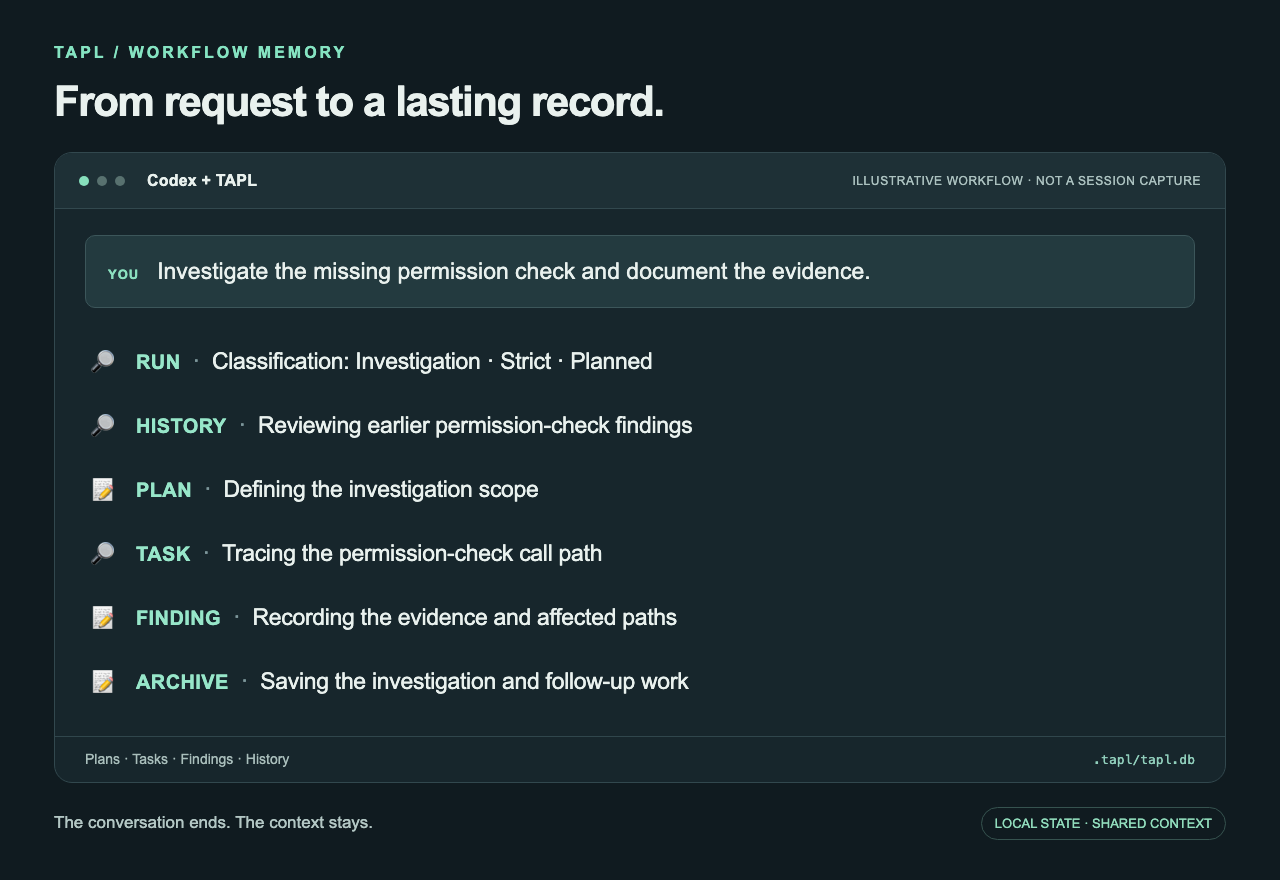
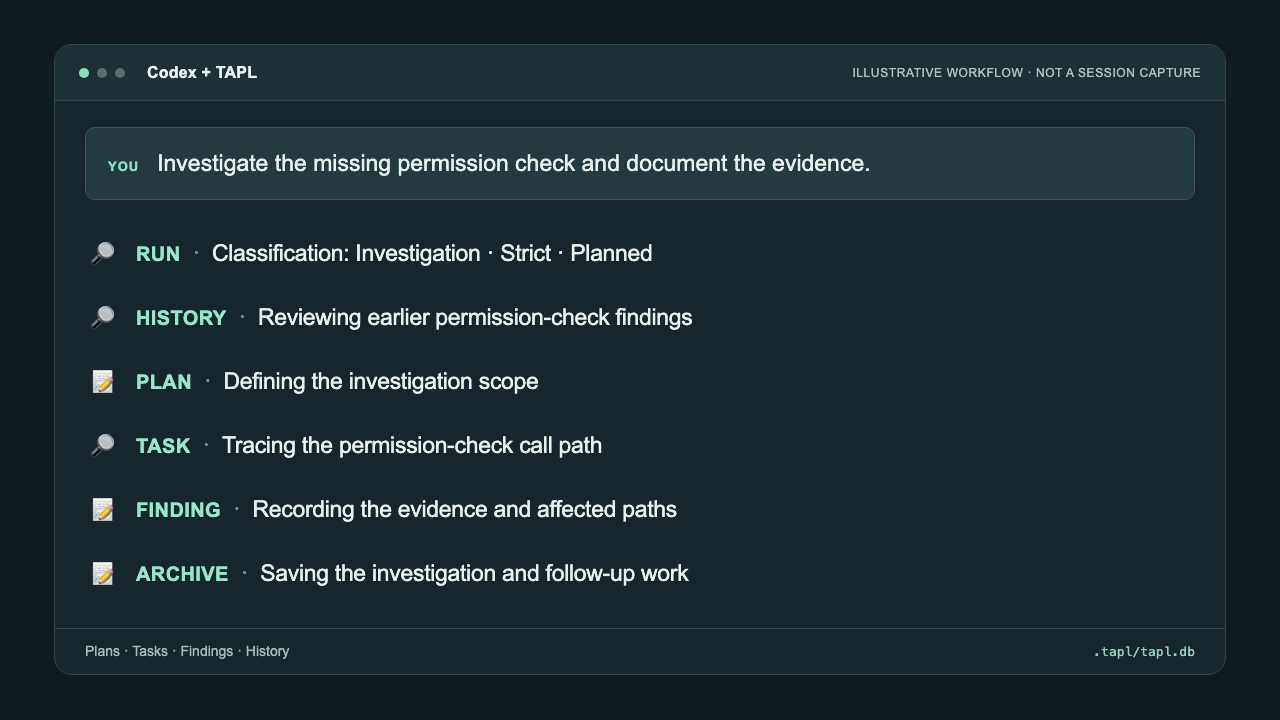
docs: remove promotional copy from workflow demos

diff --git a/assets/readme/workflow-ko.html b/assets/readme/workflow-ko.html
@@ -1,9 +1,7 @@
 <!doctype html><html lang="ko"><meta charset="utf-8">
 <title>TAPL illustrative workflow</title><style>
-* {box-sizing:border-box} html,body {margin:0;width:1280px;height:880px;overflow:hidden}
+* {box-sizing:border-box} html,body {margin:0;width:1280px;height:720px;overflow:hidden}
 body {background:#101b20;color:#e9f1ee;font-family:Arial,"Apple SD Gothic Neo","Noto Sans CJK KR",sans-serif;padding:44px 54px}
-.eyebrow {font-size:16px;letter-spacing:3px;font-weight:700;color:#85e3c1}
-h1 {font-size:42px;letter-spacing:-1.4px;margin:16px 0 26px;font-weight:650}
 .window {background:#17262c;border:1px solid #32484e;border-radius:18px;overflow:hidden}
 .bar {height:56px;background:#1e3036;display:flex;align-items:center;padding:0 24px;gap:8px;border-bottom:1px solid #32484e}
 .light {width:10px;height:10px;border-radius:50%;background:#58716f} .light:first-child {background:#87dfbc}
@@ -19,14 +17,9 @@ h1 {font-size:42px;letter-spacing:-1.4px;margin:16px 0 26px;font-weight:650}
 .dot {padding:0 12px;color:#7c969a}
 .bottom {height:46px;border-top:1px solid #30464c;display:flex;align-items:center;justify-content:space-between;color:#a9bebb;font-size:14px;padding:0 30px}
 .db {font-family:Menlo,Consolas,monospace;color:#91cfbc;font-size:13px}
-.footer {display:flex;align-items:center;justify-content:space-between;margin-top:24px;font-size:17px;color:#b3c7c4}
-.pill {border:1px solid #36534f;padding:8px 13px;border-radius:20px;color:#91dcbc;font-size:13px}
 </style><body>
-<div class="eyebrow">TAPL / WORKFLOW MEMORY</div>
-<h1>요청부터 기록까지, 한눈에.</h1>
 <div class="window"><div class="bar"><i class="light"></i><i class="light"></i><i class="light"></i>
 <span class="bar-title">Codex + TAPL</span><span class="sample">TAPL 진행 예시 · 실제 세션 캡처가 아닙니다</span></div>
 <div class="content"><div class="user"><b>YOU</b>권한 검사 누락의 원인을 조사하고 근거를 정리해줘.</div><div class="rows"><div class="row" style="visibility:visible"><span class="icon">🔎</span><div><span class="kind">RUN</span><span class="dot">·</span><span>분류: Investigation · Strict · Planned</span></div></div><div class="row" style="visibility:visible"><span class="icon">🔎</span><div><span class="kind">HISTORY</span><span class="dot">·</span><span>이전 권한 검사 관련 기록 확인 중</span></div></div><div class="row" style="visibility:visible"><span class="icon">📝</span><div><span class="kind">PLAN</span><span class="dot">·</span><span>조사 범위와 확인할 경로 정리 중</span></div></div><div class="row" style="visibility:visible"><span class="icon">🔎</span><div><span class="kind">TASK</span><span class="dot">·</span><span>권한 검사 호출 경로 추적 중</span></div></div><div class="row" style="visibility:visible"><span class="icon">📝</span><div><span class="kind">FINDING</span><span class="dot">·</span><span>확인한 근거와 영향 범위 기록 중</span></div></div><div class="row" style="visibility:visible"><span class="icon">📝</span><div><span class="kind">ARCHIVE</span><span class="dot">·</span><span>조사 결과와 후속 작업 보관 중</span></div></div></div></div>
 <div class="bottom"><span>계획 · 작업 · 근거 · 이력</span><span class="db">.tapl/tapl.db</span></div></div>
-<div class="footer"><span>대화가 끝나도, 작업의 맥락은 남습니다.</span><span class="pill">LOCAL STATE · SHARED CONTEXT</span></div>
 </body></html>

diff --git a/assets/readme/workflow-en.html b/assets/readme/workflow-en.html
@@ -1,9 +1,7 @@
 <!doctype html><html lang="en"><meta charset="utf-8">
 <title>TAPL illustrative workflow</title><style>
-* {box-sizing:border-box} html,body {margin:0;width:1280px;height:880px;overflow:hidden}
+* {box-sizing:border-box} html,body {margin:0;width:1280px;height:720px;overflow:hidden}
 body {background:#101b20;color:#e9f1ee;font-family:Arial,"Apple SD Gothic Neo","Noto Sans CJK KR",sans-serif;padding:44px 54px}
-.eyebrow {font-size:16px;letter-spacing:3px;font-weight:700;color:#85e3c1}
-h1 {font-size:42px;letter-spacing:-1.4px;margin:16px 0 26px;font-weight:650}
 .window {background:#17262c;border:1px solid #32484e;border-radius:18px;overflow:hidden}
 .bar {height:56px;background:#1e3036;display:flex;align-items:center;padding:0 24px;gap:8px;border-bottom:1px solid #32484e}
 .light {width:10px;height:10px;border-radius:50%;background:#58716f} .light:first-child {background:#87dfbc}
@@ -19,14 +17,9 @@ h1 {font-size:42px;letter-spacing:-1.4px;margin:16px 0 26px;font-weight:650}
 .dot {padding:0 12px;color:#7c969a}
 .bottom {height:46px;border-top:1px solid #30464c;display:flex;align-items:center;justify-content:space-between;color:#a9bebb;font-size:14px;padding:0 30px}
 .db {font-family:Menlo,Consolas,monospace;color:#91cfbc;font-size:13px}
-.footer {display:flex;align-items:center;justify-content:space-between;margin-top:24px;font-size:17px;color:#b3c7c4}
-.pill {border:1px solid #36534f;padding:8px 13px;border-radius:20px;color:#91dcbc;font-size:13px}
 </style><body>
-<div class="eyebrow">TAPL / WORKFLOW MEMORY</div>
-<h1>From request to a lasting record.</h1>
 <div class="window"><div class="bar"><i class="light"></i><i class="light"></i><i class="light"></i>
 <span class="bar-title">Codex + TAPL</span><span class="sample">ILLUSTRATIVE WORKFLOW · NOT A SESSION CAPTURE</span></div>
 <div class="content"><div class="user"><b>YOU</b>Investigate the missing permission check and document the evidence.</div><div class="rows"><div class="row" style="visibility:visible"><span class="icon">🔎</span><div><span class="kind">RUN</span><span class="dot">·</span><span>Classification: Investigation · Strict · Planned</span></div></div><div class="row" style="visibility:visible"><span class="icon">🔎</span><div><span class="kind">HISTORY</span><span class="dot">·</span><span>Reviewing earlier permission-check findings</span></div></div><div class="row" style="visibility:visible"><span class="icon">📝</span><div><span class="kind">PLAN</span><span class="dot">·</span><span>Defining the investigation scope</span></div></div><div class="row" style="visibility:visible"><span class="icon">🔎</span><div><span class="kind">TASK</span><span class="dot">·</span><span>Tracing the permission-check call path</span></div></div><div class="row" style="visibility:visible"><span class="icon">📝</span><div><span class="kind">FINDING</span><span class="dot">·</span><span>Recording the evidence and affected paths</span></div></div><div class="row" style="visibility:visible"><span class="icon">📝</span><div><span class="kind">ARCHIVE</span><span class="dot">·</span><span>Saving the investigation and follow-up work</span></div></div></div></div>
 <div class="bottom"><span>Plans · Tasks · Findings · History</span><span class="db">.tapl/tapl.db</span></div></div>
-<div class="footer"><span>The conversation ends. The context stays.</span><span class="pill">LOCAL STATE · SHARED CONTEXT</span></div>
 </body></html>

diff --git a/assets/readme/render-demo.py b/assets/readme/render-demo.py
@@ -19,7 +19,6 @@ ROOT = Path(__file__).resolve().parent
 CHROME = os.environ.get("CHROME") or shutil.which("chromium") or shutil.which("google-chrome") or "/Applications/Google Chrome.app/Contents/MacOS/Google Chrome"
 COPY = {
     "ko": {
-        "title": "요청부터 기록까지, 한눈에.",
         "example": "TAPL 진행 예시 · 실제 세션 캡처가 아닙니다",
         "user": "권한 검사 누락의 원인을 조사하고 근거를 정리해줘.",
         "rows": [
@@ -30,11 +29,9 @@ COPY = {
             ("📝", "FINDING", "확인한 근거와 영향 범위 기록 중"),
             ("📝", "ARCHIVE", "조사 결과와 후속 작업 보관 중"),
         ],
-        "footer": "대화가 끝나도, 작업의 맥락은 남습니다.",
         "record": "계획 · 작업 · 근거 · 이력",
     },
     "en": {
-        "title": "From request to a lasting record.",
         "example": "ILLUSTRATIVE WORKFLOW · NOT A SESSION CAPTURE",
         "user": "Investigate the missing permission check and document the evidence.",
         "rows": [
@@ -45,7 +42,6 @@ COPY = {
             ("📝", "FINDING", "Recording the evidence and affected paths"),
             ("📝", "ARCHIVE", "Saving the investigation and follow-up work"),
         ],
-        "footer": "The conversation ends. The context stays.",
         "record": "Plans · Tasks · Findings · History",
     },
 }
@@ -61,10 +57,8 @@ def page(lang, visible):
     )
     return f'''<!doctype html><html lang="{lang}"><meta charset="utf-8">
 <title>TAPL illustrative workflow</title><style>
-* {{box-sizing:border-box}} html,body {{margin:0;width:1280px;height:880px;overflow:hidden}}
+* {{box-sizing:border-box}} html,body {{margin:0;width:1280px;height:720px;overflow:hidden}}
 body {{background:#101b20;color:#e9f1ee;font-family:Arial,"Apple SD Gothic Neo","Noto Sans CJK KR",sans-serif;padding:44px 54px}}
-.eyebrow {{font-size:16px;letter-spacing:3px;font-weight:700;color:#85e3c1}}
-h1 {{font-size:42px;letter-spacing:-1.4px;margin:16px 0 26px;font-weight:650}}
 .window {{background:#17262c;border:1px solid #32484e;border-radius:18px;overflow:hidden}}
 .bar {{height:56px;background:#1e3036;display:flex;align-items:center;padding:0 24px;gap:8px;border-bottom:1px solid #32484e}}
 .light {{width:10px;height:10px;border-radius:50%;background:#58716f}} .light:first-child {{background:#87dfbc}}
@@ -80,16 +74,11 @@ h1 {{font-size:42px;letter-spacing:-1.4px;margin:16px 0 26px;font-weight:650}}
 .dot {{padding:0 12px;color:#7c969a}}
 .bottom {{height:46px;border-top:1px solid #30464c;display:flex;align-items:center;justify-content:space-between;color:#a9bebb;font-size:14px;padding:0 30px}}
 .db {{font-family:Menlo,Consolas,monospace;color:#91cfbc;font-size:13px}}
-.footer {{display:flex;align-items:center;justify-content:space-between;margin-top:24px;font-size:17px;color:#b3c7c4}}
-.pill {{border:1px solid #36534f;padding:8px 13px;border-radius:20px;color:#91dcbc;font-size:13px}}
 </style><body>
-<div class="eyebrow">TAPL / WORKFLOW MEMORY</div>
-<h1>{copy["title"]}</h1>
 <div class="window"><div class="bar"><i class="light"></i><i class="light"></i><i class="light"></i>
 <span class="bar-title">Codex + TAPL</span><span class="sample">{copy["example"]}</span></div>
 <div class="content"><div class="user"><b>YOU</b>{copy["user"]}</div><div class="rows">{rows}</div></div>
 <div class="bottom"><span>{copy["record"]}</span><span class="db">.tapl/tapl.db</span></div></div>
-<div class="footer"><span>{copy["footer"]}</span><span class="pill">LOCAL STATE · SHARED CONTEXT</span></div>
 </body></html>'''
 
 
@@ -100,7 +89,7 @@ def run(*args):
 def screenshot(source, frame, profile):
     args = [CHROME, "--headless", "--disable-gpu", "--hide-scrollbars", "--no-first-run",
             "--no-default-browser-check", "--disable-extensions", "--disable-background-networking",
-            f"--user-data-dir={profile}", "--window-size=1280,880", "--force-device-scale-factor=1",
+            f"--user-data-dir={profile}", "--window-size=1280,720", "--force-device-scale-factor=1",
             f"--screenshot={frame}", source.as_uri()]
     # Some macOS Chrome builds keep the headless process alive after capture.
     with tempfile.TemporaryFile() as log:
